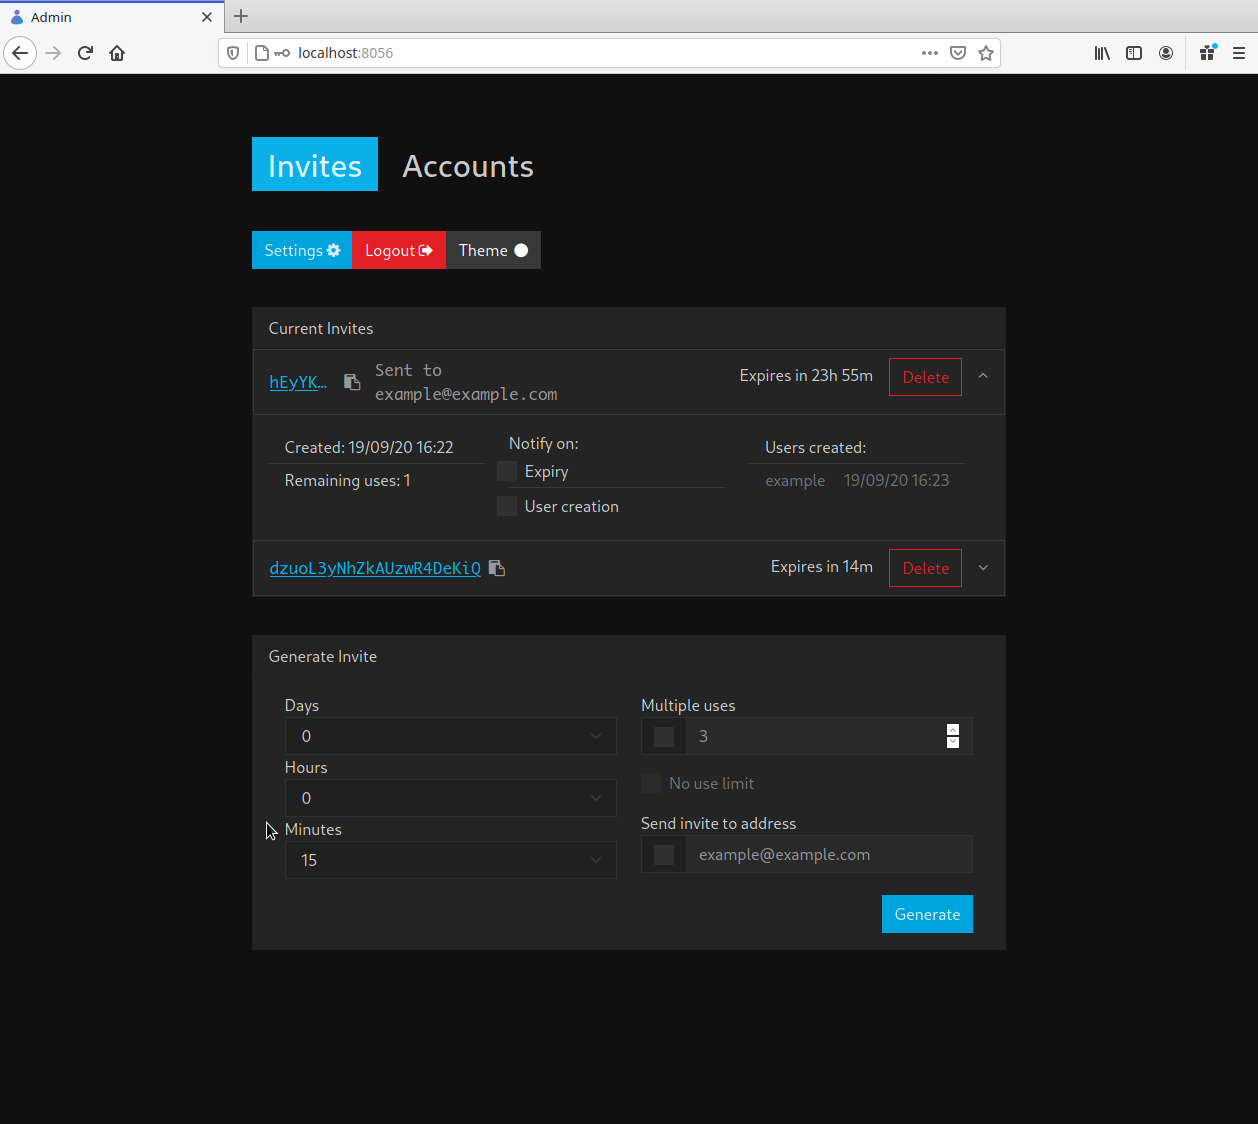
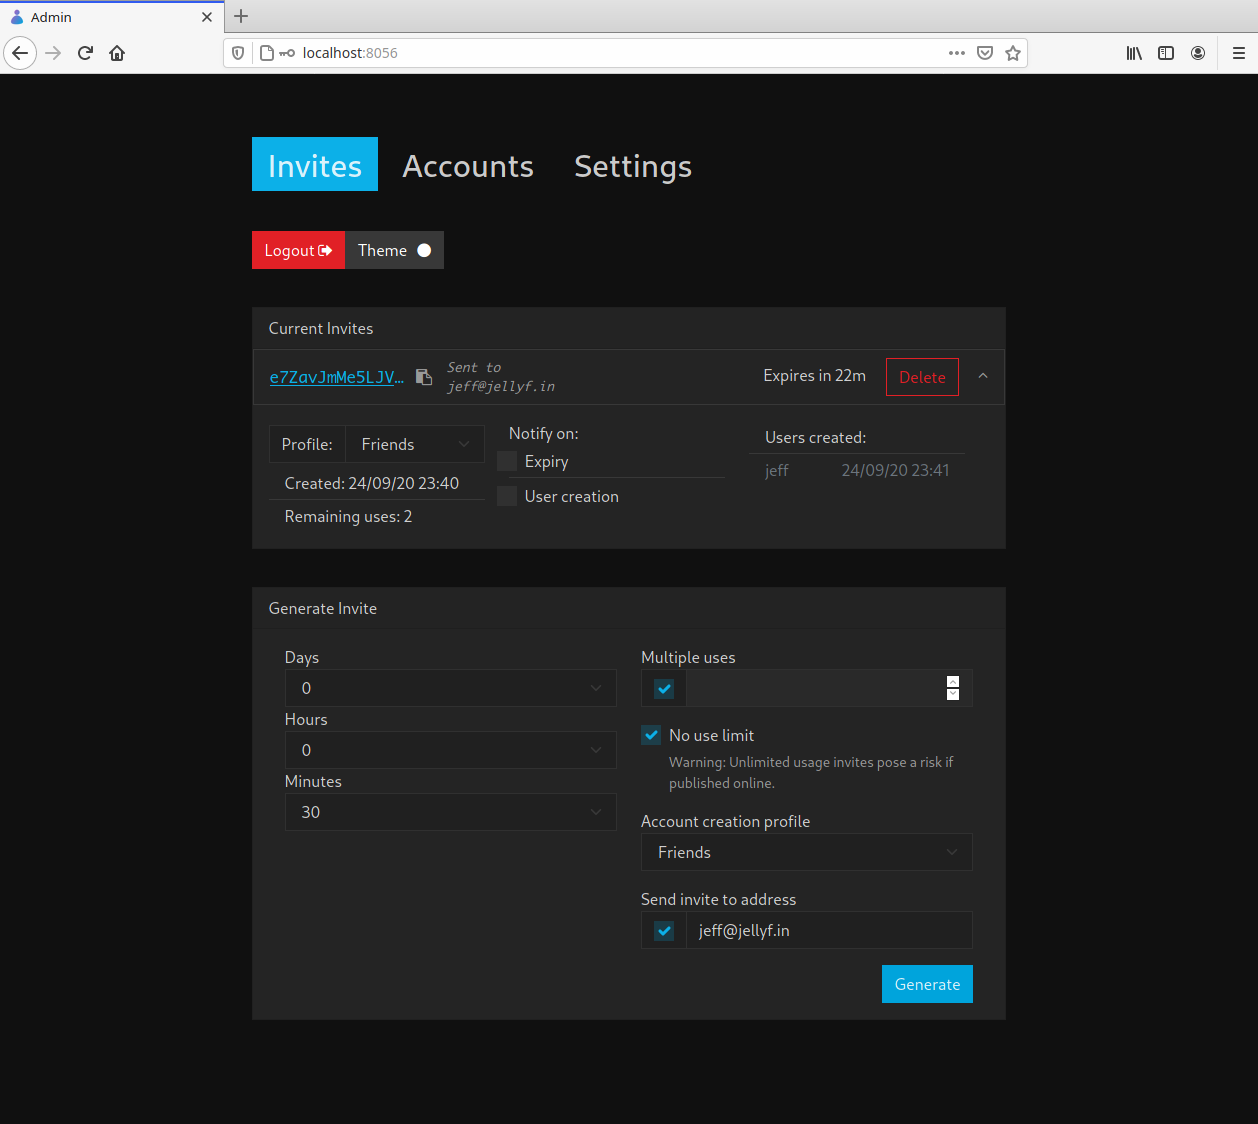
small changes, new images and readme updated

diff --git a/data/templates/admin.html b/data/templates/admin.html
@@ -134,7 +134,10 @@
                             <label for="newProfileName" class="form-label">Name</label>
                             <input type="text" class="form-control" id="newProfileName" aria-describedby="Profile Name">
                         </div>
-                        <div id="defaultUserRadios"></div>
+                        <div id="defaultUserRadiosBox">
+                            <label for="defaultUserRadios" class="form-label">Get settings from</label>
+                            <div id="defaultUserRadios"></div>
+                        </div>
                         <div class="form-check" style="margin-top: 1rem;">
                             <input class="form-check-input" type="checkbox" value="" id="storeDefaultHomescreen" checked>
                             <label class="form-check-label" for="storeDefaultHomescreen" id="storeHomescreenLabel"></label>

diff --git a/ts/accounts.ts b/ts/accounts.ts
@@ -263,14 +263,14 @@ function populateRadios(): void {
     Focus(document.getElementById('defaultsSourceSection'));
     (<HTMLSelectElement>document.getElementById('defaultsSource')).value = 'profile';
     Focus(document.getElementById('profileSelectBox'));
-    Unfocus(document.getElementById('defaultUserRadios'));
+    Unfocus(document.getElementById('defaultUserRadiosBox'));
     Unfocus(document.getElementById('newProfileBox'));
     document.getElementById('storeDefaults').onclick = (): void => storeDefaults(userIDs);
     userDefaultsModal.show();
 };
 
 (<HTMLSelectElement>document.getElementById('defaultsSource')).addEventListener('change', function (): void {
-    const radios = document.getElementById('defaultUserRadios');
+    const radios = document.getElementById('defaultUserRadiosBox');
     const profileBox = document.getElementById('profileSelectBox');
     if (this.value == 'profile') {
         Unfocus(radios);

diff --git a/ts/settings.ts b/ts/settings.ts
@@ -204,7 +204,7 @@ const createProfile = (): void => _get("/users", null, function (): void {
         (document.getElementById('storeDefaults') as HTMLButtonElement).onclick = storeProfile;
         Focus(document.getElementById('newProfileBox'));
         (document.getElementById('newProfileName') as HTMLInputElement).value = '';
-        Focus(document.getElementById('defaultUserRadios'));
+        Focus(document.getElementById('defaultUserRadiosBox'));
         userDefaultsModal.show();
     }
 });

diff --git a/main.go b/main.go
@@ -590,8 +590,12 @@ func flagPassed(name string) (found bool) {
 // @tag.name Other
 // @tag.description Things that dont fit elsewhere.
 
-func main() {
+func printVersion() {
 	fmt.Print(aurora.Sprintf(aurora.Magenta("jfa-go version: %s (%s)\n"), aurora.BrightWhite(VERSION), aurora.White(COMMIT)))
+}
+
+func main() {
+	printVersion()
 	folder := "/tmp"
 	if PLATFORM == "windows" {
 		folder = os.Getenv("TEMP")
@@ -631,7 +635,7 @@ func main() {
 		RESTART = make(chan bool, 1)
 		start(false, true)
 		for {
-			fmt.Printf("jfa-go version: %s (%s)\n", VERSION, COMMIT)
+			printVersion()
 			start(false, false)
 		}
 	}

diff --git a/README.md b/README.md
@@ -8,11 +8,11 @@ I chose to rewrite the python [jellyfin-accounts](https://github.com/hrfee/jelly
 * 🧑 Invite based account creation: Sends invites to your friends or family, and let them choose their own username and password without relying on you.
     * Send invites via a link and/or email
     * Granular control over invites: Validity period as well as number of uses can be specified.
-    * Account defaults: Configure an example account to your liking, and its permissions, access rights and homescreen layout can be applied to all new users.
+    * Account profiles: Assign settings profiles to invites so new users have your predefined permissions, homescreen layout, etc. applied to their account on creation.
     * Password validation: Ensure users choose a strong password.
 * 🔗 Ombi Integration: Automatically creates Ombi accounts for new users using their email address and login details, and your own defined set of permissions.
 * Account management: Apply settings to your users individually or en masse, and delete users, optionally sending them an email notification with a reason.
-* 📨 Email storage: Add your existing user's email addresses through the UI, and jfa-go will ask new users for them on account creation.
+* 📨 Email storage: Add your existing users email addresses through the UI, and jfa-go will ask new users for them on account creation.
     * Email addresses can optionally be used instead of usernames
 * 🔑 Password resets: When user's forget their passwords and request a change in Jellyfin, jfa-go reads the PIN from the created file and sends it straight to the user via email.
 * Notifications: Get notified when someone creates an account, or an invite expires.
@@ -76,6 +76,8 @@ Usage of ./jfa-go:
     	alternate address to host web ui on.
   -port int
     	alternate port to host web ui on.
+  -swagger
+    	Enable swagger at /swagger/index.html
 ```
 
 If you're switching from jellyfin-accounts, copy your existing `~/.jf-accounts` to: